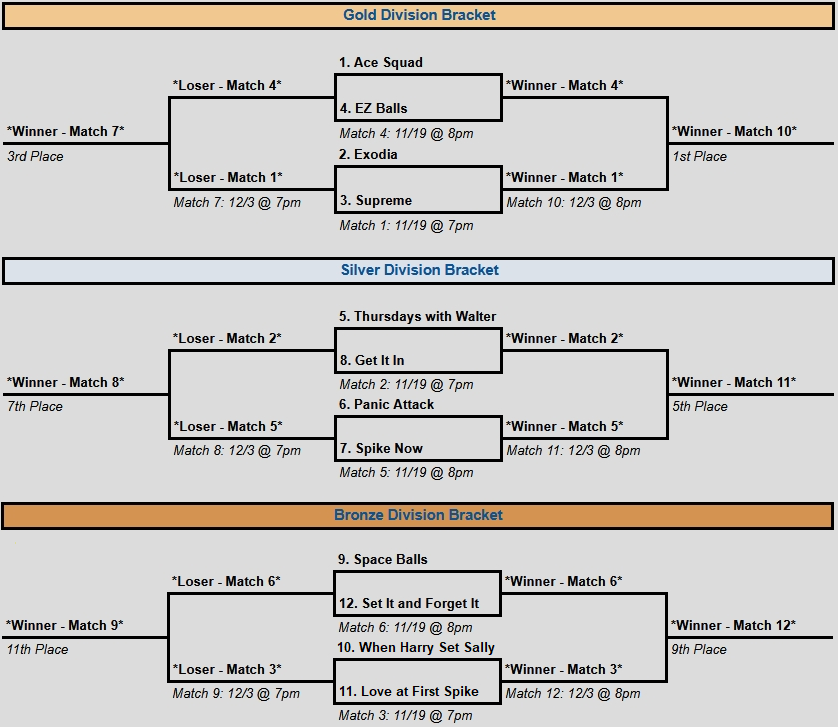
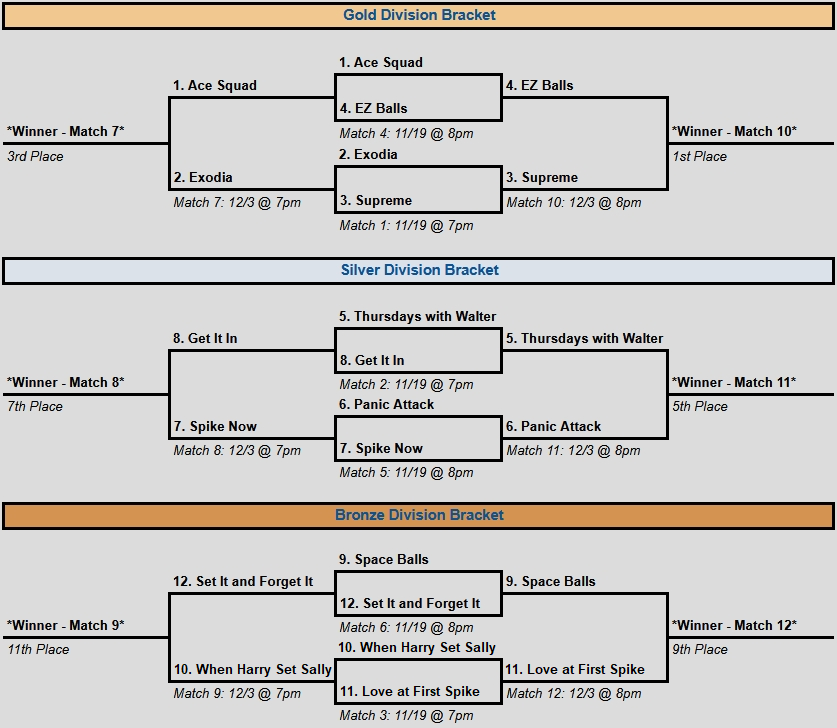
p1 scores

diff --git a/coed/dvb_fal26.html b/coed/dvb_fal26.html
@@ -1602,33 +1602,33 @@
         </tr>
         <tr>
           <td class="box_score_top_team_white">Exodia</td>
-          <td class="box_score_top_score_white"></td>
+          <td class="box_score_top_score_white">0</td>
         </tr>
         <tr>
           <td class="box_score_bot_team_white">Supreme</td>
-          <td class="box_score_bot_score_white"></td>
+          <td class="box_score_bot_score_white">1</td>
         </tr>
         <tr>
           <th class="box_score_court_white" colspan="2">Court 2 - Match 2</th>
         </tr>
         <tr>
           <td class="box_score_top_team_white">Thursdays with Walter</td>
-          <td class="box_score_top_score_white"></td>
+          <td class="box_score_top_score_white">1</td>
         </tr>
         <tr>
           <td class="box_score_bot_team_white">Get It In</td>
-          <td class="box_score_bot_score_white"></td>
+          <td class="box_score_bot_score_white">0</td>
         </tr>
         <tr>
           <th class="box_score_court_white" colspan="2">Court 3 - Match 3</th>
         </tr>
         <tr>
           <td class="box_score_top_team_white">When Harry Set Sally</td>
-          <td class="box_score_top_score_white"></td>
+          <td class="box_score_top_score_white">0</td>
         </tr>
         <tr>
           <td class="box_score_bot_team_white">Love at First Spike</td>
-          <td class="box_score_bot_score_white"></td>
+          <td class="box_score_bot_score_white">1</td>
         </tr>
         <tr>
           <th class="box_score_8pm" rowspan="9">8 PM</th>
@@ -1636,33 +1636,33 @@
         </tr>
         <tr>
           <td class="box_score_top_team_gray">Ace Squad</td>
-          <td class="box_score_top_score_gray"></td>
+          <td class="box_score_top_score_gray">0</td>
         </tr>
         <tr>
           <td class="box_score_bot_team_gray">EZ Balls</td>
-          <td class="box_score_bot_score_gray"></td>
+          <td class="box_score_bot_score_gray">1</td>
         </tr>
         <tr>
           <th class="box_score_court_gray" colspan="2">Court 2 - Match 5</th>
         </tr>
         <tr>
           <td class="box_score_top_team_gray">Panic Attack</td>
-          <td class="box_score_top_score_gray"></td>
+          <td class="box_score_top_score_gray">1</td>
         </tr>
         <tr>
           <td class="box_score_bot_team_gray">Spike Now</td>
-          <td class="box_score_bot_score_gray"></td>
+          <td class="box_score_bot_score_gray">0</td>
         </tr>
         <tr>
           <th class="box_score_court_gray" colspan="2">Court 3 - Match 6</th>
         </tr>
         <tr>
           <td class="box_score_top_team_gray">Space Balls</td>
-          <td class="box_score_top_score_gray"></td>
+          <td class="box_score_top_score_gray">1</td>
         </tr>
         <tr>
           <td class="box_score_bot_team_gray">Set It and Forget It</td>
-          <td class="box_score_bot_score_gray"></td>
+          <td class="box_score_bot_score_gray">0</td>
         </tr>
       </table>
     </div>
@@ -1677,33 +1677,33 @@
           <th class="box_score_court_white" colspan="2">Court 1 - 3rd Place</th>
         </tr>
         <tr>
-          <td class="box_score_top_team_white">Loser - Match 4</td>
+          <td class="box_score_top_team_white">Ace Squad</td>
           <td class="box_score_top_score_white"></td>
         </tr>
         <tr>
-          <td class="box_score_bot_team_white">Loser - Match 1</td>
+          <td class="box_score_bot_team_white">Exodia</td>
           <td class="box_score_bot_score_white"></td>
         </tr>
         <tr>
           <th class="box_score_court_white" colspan="2">Court 2 - 7th Place</th>
         </tr>
         <tr>
-          <td class="box_score_top_team_white">Loser - Match 2</td>
+          <td class="box_score_top_team_white">Get It In</td>
           <td class="box_score_top_score_white"></td>
         </tr>
         <tr>
-          <td class="box_score_bot_team_white">Loser - Match 5</td>
+          <td class="box_score_bot_team_white">Spike Now</td>
           <td class="box_score_bot_score_white"></td>
         </tr>
         <tr>
           <th class="box_score_court_white" colspan="2">Court 3 - 11th Place</th>
         </tr>
         <tr>
-          <td class="box_score_top_team_white">Loser - Match 6</td>
+          <td class="box_score_top_team_white">Set It and Forget It</td>
           <td class="box_score_top_score_white"></td>
         </tr>
         <tr>
-          <td class="box_score_bot_team_white">Loser - Match 3</td>
+          <td class="box_score_bot_team_white">When Harry Set Sally</td>
           <td class="box_score_bot_score_white"></td>
         </tr>
         <tr>
@@ -1711,33 +1711,33 @@
           <th class="box_score_court_gold" colspan="2">Court 1 - 1st Place</th>
         </tr>
         <tr>
-          <td class="box_score_top_team_gray">Winner - Match 4</td>
+          <td class="box_score_top_team_gray">EZ Balls</td>
           <td class="box_score_top_score_gray"></td>
         </tr>
         <tr>
-          <td class="box_score_bot_team_gray">Winner - Match 1</td>
+          <td class="box_score_bot_team_gray">Supreme</td>
           <td class="box_score_bot_score_gray"></td>
         </tr>
         <tr>
           <th class="box_score_court_silver" colspan="2">Court 2 - 5th Place</th>
         </tr>
         <tr>
-          <td class="box_score_top_team_gray">Winner - Match 2</td>
+          <td class="box_score_top_team_gray">Thursdays with Walter</td>
           <td class="box_score_top_score_gray"></td>
         </tr>
         <tr>
-          <td class="box_score_bot_team_gray">Winner - Match 5</td>
+          <td class="box_score_bot_team_gray">Panic Attack</td>
           <td class="box_score_bot_score_gray"></td>
         </tr>
         <tr>
           <th class="box_score_court_bronze" colspan="2">Court 3 - 9th Place</th>
         </tr>
         <tr>
-          <td class="box_score_top_team_gray">Winner - Match 6</td>
+          <td class="box_score_top_team_gray">Space Balls</td>
           <td class="box_score_top_score_gray"></td>
         </tr>
         <tr>
-          <td class="box_score_bot_team_gray">Winner - Match 3</td>
+          <td class="box_score_bot_team_gray">Love at First Spike</td>
           <td class="box_score_bot_score_gray"></td>
         </tr>
       </table>
@@ -1745,7 +1745,7 @@
 
     <div id="BR" style="display:none;margin-left:10px;margin-top:10px;margin-right:10px;margin-bottom:10px;">
       <div>
-        <img title="Bracket" style="height:min(727px,100%);width:min(838px,100%);" src="../images/dvb/dvb_fal26_bracket.png">
+        <img title="Bracket" style="height:min(728px,100%);width:min(837px,100%);" src="../images/dvb/dvb_fal26_bracket.png">
       </div>
     </div>
 

diff --git a/womens/dcwvb_fal26.html b/womens/dcwvb_fal26.html
@@ -1327,33 +1327,33 @@
         </tr>
         <tr>
           <td class="box_score_top_team_white">Boo-dacious Blocks</td>
-          <td class="box_score_top_score_white"></td>
+          <td class="box_score_top_score_white">1</td>
         </tr>
         <tr>
           <td class="box_score_bot_team_white">Team Kate</td>
-          <td class="box_score_bot_score_white"></td>
+          <td class="box_score_bot_score_white">0</td>
         </tr>
         <tr>
           <th class="box_score_court_white" colspan="2">Court 2 - Match 2</th>
         </tr>
         <tr>
           <td class="box_score_top_team_white">Out of Position (Oops)</td>
-          <td class="box_score_top_score_white"></td>
+          <td class="box_score_top_score_white">1</td>
         </tr>
         <tr>
           <td class="box_score_bot_team_white">The Blocking Dead</td>
-          <td class="box_score_bot_score_white"></td>
+          <td class="box_score_bot_score_white">0</td>
         </tr>
         <tr>
           <th class="box_score_court_white" colspan="2">Court 3 - Match 3</th>
         </tr>
         <tr>
           <td class="box_score_top_team_white">Volley Parton</td>
-          <td class="box_score_top_score_white"></td>
+          <td class="box_score_top_score_white">1</td>
         </tr>
         <tr>
           <td class="box_score_bot_team_white">Scary Carries</td>
-          <td class="box_score_bot_score_white"></td>
+          <td class="box_score_bot_score_white">0</td>
         </tr>
         <tr>
           <th class="box_score_8pm" rowspan="9">8 PM</th>
@@ -1361,33 +1361,33 @@
         </tr>
         <tr>
           <td class="box_score_top_team_gray">Spike Girls</td>
-          <td class="box_score_top_score_gray"></td>
+          <td class="box_score_top_score_gray">0</td>
         </tr>
         <tr>
-          <td class="box_score_bot_team_gray">Winner - Match 3</td>
-          <td class="box_score_bot_score_gray"></td>
+          <td class="box_score_bot_team_gray">Volley Parton</td>
+          <td class="box_score_bot_score_gray">1</td>
         </tr>
         <tr>
           <th class="box_score_court_gray" colspan="2">Court 2 - Match 5</th>
         </tr>
         <tr>
           <td class="box_score_top_team_gray">Bumpkin Spike Latte</td>
-          <td class="box_score_top_score_gray"></td>
+          <td class="box_score_top_score_gray">1</td>
         </tr>
         <tr>
-          <td class="box_score_bot_team_gray">Winner - Match 2</td>
-          <td class="box_score_bot_score_gray"></td>
+          <td class="box_score_bot_team_gray">Out of Position (Oops)</td>
+          <td class="box_score_bot_score_gray">0</td>
         </tr>
         <tr>
           <th class="box_score_court_gray" colspan="2">Court 3 - Match 6</th>
         </tr>
         <tr>
           <td class="box_score_top_team_gray">Shove It</td>
-          <td class="box_score_top_score_gray"></td>
+          <td class="box_score_top_score_gray">1</td>
         </tr>
         <tr>
           <td class="box_score_bot_team_gray">Team Katie H</td>
-          <td class="box_score_bot_score_gray"></td>
+          <td class="box_score_bot_score_gray">0</td>
         </tr>
       </table>
     </div>
@@ -1402,33 +1402,33 @@
           <th class="box_score_court_white" colspan="2">Court 1 - Semifinal 1</th>
         </tr>
         <tr>
-          <td class="box_score_top_team_white">Winner - Match 4</td>
+          <td class="box_score_top_team_white">Volley Parton</td>
           <td class="box_score_top_score_white"></td>
         </tr>
         <tr>
-          <td class="box_score_bot_team_white">Winner - Match 1</td>
+          <td class="box_score_bot_team_white">Boo-dacious Blocks</td>
           <td class="box_score_bot_score_white"></td>
         </tr>
         <tr>
           <th class="box_score_court_white" colspan="2">Court 2 - Semifinal 2</th>
         </tr>
         <tr>
-          <td class="box_score_top_team_white">Winner - Match 5</td>
+          <td class="box_score_top_team_white">Bumpkin Spike Latte</td>
           <td class="box_score_top_score_white"></td>
         </tr>
         <tr>
-          <td class="box_score_bot_team_white">Winner - Match 6</td>
+          <td class="box_score_bot_team_white">Shove It</td>
           <td class="box_score_bot_score_white"></td>
         </tr>
         <tr>
           <th class="box_score_court_white" colspan="2">Court 3 - 5th Place</th>
         </tr>
         <tr>
-          <td class="box_score_top_team_white">Loser - Match 1</td>
+          <td class="box_score_top_team_white">Team Kate</td>
           <td class="box_score_top_score_white"></td>
         </tr>
         <tr>
-          <td class="box_score_bot_team_white">Loser - Match 6</td>
+          <td class="box_score_bot_team_white">Team Katie H</td>
           <td class="box_score_bot_score_white"></td>
         </tr>
         <tr>
@@ -1458,11 +1458,11 @@
           <th class="box_score_court_gray" colspan="2">Court 3 - 9th Place</th>
         </tr>
         <tr>
-          <td class="box_score_top_team_gray">Loser - Match 2</td>
+          <td class="box_score_top_team_gray">The Blocking Dead</td>
           <td class="box_score_top_score_gray"></td>
         </tr>
         <tr>
-          <td class="box_score_bot_team_gray">Loser - Match 3</td>
+          <td class="box_score_bot_team_gray">Scary Carries</td>
           <td class="box_score_bot_score_gray"></td>
         </tr>
       </table>
@@ -1470,7 +1470,7 @@
 
     <div id="BR" style="display:none;margin-left:10px;margin-top:10px;margin-right:10px;margin-bottom:10px;">
       <div>
-        <img title="Bracket" style="height:100%;width:min(837px,100%);" src="../images/dcwvb/dcwvb_fal26_bracket.png">
+        <img title="Bracket" style="height:100%;width:min(838px,100%);" src="../images/dcwvb/dcwvb_fal26_bracket.png">
       </div>
     </div>
 
